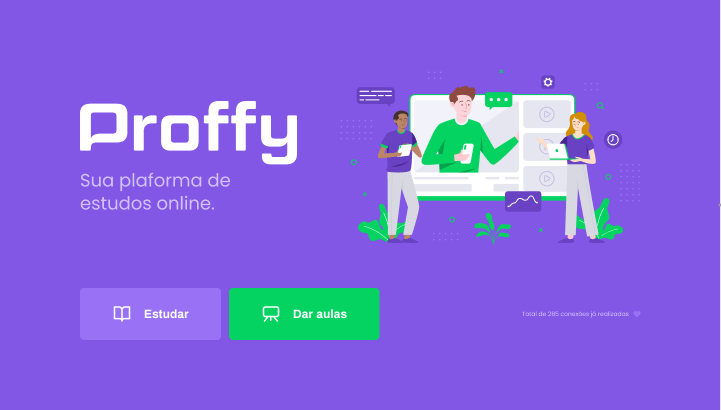
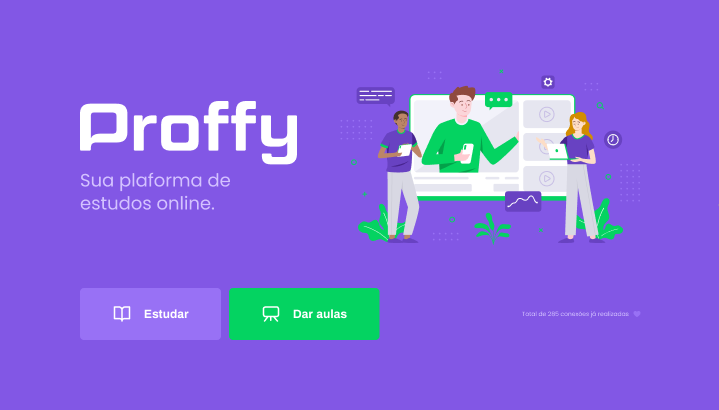
Adicionado parte do study.html

diff --git a/study.html b/study.html
@@ -3,9 +3,69 @@
     <head>
         <meta charset="UTF-8">
         <meta name="viewport" content="width=device-width, initial-scale=1.0">
-        <title>Document</title>
+        <link href="https://fonts.googleapis.com/css2?family=Archivo:wght@400;700&amp;family=Poppins:wght@400;600&amp;display=swap" rel="stylesheet">
+        <link rel="stylesheet" href="css/main.css">
+        <link rel="stylesheet" href="css/partials/page-study.css">
+        <title>Proffy | Sua plataforma de estudos online</title>
     </head>
-    <body>
+    <body id="page-study">
+
+        <div id="container">
+
+            <header class="page-header">
+                <div class="top-bar-container">
+                    <a href="/">
+                        <img src="images/icons/back.svg" alt="Voltar">
+                    </a>
+                    <img src="images/logo.svg" alt="Proffy">
+                </div>
+
+                <div class="header-content">
+                    <strong>Esses são os proffys disponíveis</strong>
+                    <form id="search-teachers">
+
+                        <div class="select-block">
+                            <label for="subject">Matéria</label>
+                            <select name="subject" id="subject">
+                                <option value="" disabled="" hidden="">Selecione uma opção</option>
+                                <option value="1">Artes</option>
+                                <option value="2">Biologia</option>
+                                <option value="3">Ciências</option>
+                                <option value="4">Educação Física</option>
+                                <option value="5">Física</option>
+                                <option value="6">Geografia</option>
+                                <option value="7">História</option>
+                                <option value="8">Matemática</option>
+                                <option value="9">Português</option>
+                                <option value="10">Química</option>
+                            </select>
+                        </div>
+
+                        <div class="select-block">
+                            <label for="weekday">Dia da semana</label>
+                            <select name="weekday" id="weekday">
+                                <option value="" disabled="" hidden="">Selecione uma opção</option>
+                                <option value="0">Domingo</option>
+                                <option value="1">Segunda</option>
+                                <option value="2">Terça</option>
+                                <option value="3">Quarta</option>
+                                <option value="4">Quinta</option>
+                                <option value="5">Sexta</option>
+                                <option value="6">Sábado</option>
+                            </select>
+                        </div>
+
+                        <div class="input-block">
+                            <label for="time">Hora (De 0 até 24)</label>
+                            <input name="time" id="time" type="time">
+                        </div>
+
+                        <button type="submit">Filtrar</button>
+                    </form>
+                </div>
+            </header>
+
+        </div>
         
     </body>
 </html>

diff --git a/css/partials/page-study.css b/css/partials/page-study.css
@@ -1,0 +1,107 @@
+#page-study #container {
+    width: 100vw;
+    height: 100vh;
+}
+
+.page-header {
+    background-color: var(--color-primary);
+    display: flex;
+    flex-direction: column;
+}
+
+.page-header .top-bar-container {
+    width: 90%;
+    display: flex;
+    align-items: center;
+    justify-content: space-between;
+    margin: 0 auto;
+    padding: 1.6rem 0;
+}
+
+.page-header .top-bar-container a {
+    height: 3.2rem;
+    transition: opacity .2s;
+}
+
+.page-header .top-bar-container a:hover {
+    opacity: .6;
+}
+
+.page-header .top-bar-container img {
+    height: 1.6rem;
+}
+
+.page-header .header-content {
+    width: 90%;
+    margin: 3.2rem auto;
+}
+
+.page-header .header-content strong {
+    font: 700 3.6rem Archivo;
+    line-height: 4.2rem;
+    color: var(--color-title-in-primary);
+}
+
+#search-teachers {
+    margin-top: 3.2rem;
+}
+
+#search-teachers label {
+    color: var(--color-text-in-primary);
+}
+
+#search-teachers .select-block {
+    margin-bottom: 1.4rem;
+}
+
+#search-teachers button {
+    width: 100%;
+    height: 5.6rem;
+    background: var(--color-secondary);
+    color: var(--color-button-text);
+    border: 0;
+    border-radius: .8rem;
+    cursor: pointer;
+    font: 700 1.6rem Archivo;
+    display: flex;
+    align-items: center;
+    justify-content: center;
+    transition: background 0.2;
+    margin-top: 3.2rem;
+}
+
+#search-teachers button:hover {
+    background: var(--color-secondary-dark);
+}
+
+.select-block label, .input-block label {
+    font-size: 1.4rem;
+    color: var(--color-text-complement);
+}
+
+.input-block input, .select-block select {
+    width: 100%;
+    height: 5.6rem;
+    margin-top: .8rem;
+    border-radius: .8rem;
+    background: var(--color-input-background);
+    border: 1px solid var(--color-line-in-white);
+    outline: 0;
+    padding: 0 1.6rem;
+    font: 1.6rem Archivo;
+}
+
+.input-block {
+    position: relative;
+}
+
+.input-block:focus-within::after {
+    content: "";
+    width: calc(100% - 3.2rem);
+    height: 2px;
+    background: var(--color-primary-light);
+    position: absolute;
+    left: 1.6rem;
+    right: 1.6rem;
+    bottom: 0;
+}

diff --git a/css/partials/page-landing.css b/css/partials/page-landing.css
@@ -1,5 +1,7 @@
-:root {
-    font-size: 40%;
+@media (max-width: 699px) {
+    :root {
+        font-size: 40%;
+    }
 }
 
 #page-landing {
@@ -70,4 +72,57 @@
 
 .buttons-container a.give-classes:hover {
     background-color: var(--color-secondary-dark);
+}
+
+.total-connections {
+    font-size: 1.8rem;
+    display: flex;
+    align-items: center;
+    justify-content: center;
+}
+
+.total-connections img {
+    margin-left: 0.8rem;
+}
+
+@media (min-width: 1100px) {
+    #page-landing #container {
+        max-width: 1100px;
+        display: grid;
+        grid-template-columns: 2fr 1fr 2fr;
+        grid-template-rows: 350px 1fr;
+        grid-template-areas:
+        "proffy image image"
+        "button button texting";
+        column-gap: 87px;
+        row-gap: 86px;
+    }
+
+    #page-landing #container  .logo-container {
+        grid-area: proffy;
+        text-align: initial;
+        align-self: center;
+        margin: 0;
+    }
+
+    #page-landing #container .logo-container img {
+        height: 127px;
+    }
+
+    .hero-image {
+        grid-area: image;
+        height: 350px;
+    }
+
+    .buttons-container {
+        grid-area: button;
+        justify-content: flex-start;
+        margin: 0;
+    }
+
+    .total-connections {
+        grid-area: texting;
+        justify-self: end;
+        font-size: 1.2rem;
+    }
 }

diff --git a/index.html b/index.html
@@ -14,21 +14,26 @@
 
             <div class="logo-container">
                 <img src="images/logo.svg" alt="Proffy">
-                <h2>Sua Sua plataforma de estudos online.</h2>
+                <h2>Sua plataforma de estudos online.</h2>
             </div>
 
             <img class="hero-image" src="images/landing.svg" alt="Plataforma de estudos">
 
             <div class="buttons-container">
-                <a class="study" href="study.html">
+                <a class="study" href="/study.html">
                     <img src="images/icons/study.svg" alt="Estudar">
                     Estudar
                 </a>
-                <a class="give-classes" href="give-classes.html">
+                <a class="give-classes" href="/give-classes.html">
                     <img src="images/icons/give-classes.svg" alt="Estudar">
                     Dar aulas
                 </a>
             </div>
+
+            <p class="total-connections">
+                Total de 200 conexões já realizadas
+                <img src="images/icons/purple-heart.svg" alt="">
+            </p>
 
         </div>
         

diff --git a/css/main.css b/css/main.css
@@ -48,3 +48,9 @@ body, input, button, textarea {
     width: 90vw;
     max-width: 700px;
 }
+
+@media (min-width: 700px) {
+    :root {
+        font-size: 62.5%;
+    }
+}
